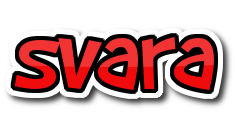
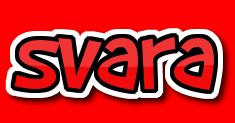
new changes

diff --git a/app/assets/stylesheets/application.scss b/app/assets/stylesheets/application.scss
@@ -1,6 +1,33 @@
 @import "bootstrap-sprockets";
 @import "bootstrap";
 
+
+body {
+    background-color: #ADD8E6;
+}
+
+
+
+.jumbotron {
+    max-width:500px;
+    margin:20px auto;
+    background-color :#FFF;
+    font-size: 25px;
+    font-weight: 700 ;
+    font-style: oblique;
+}
+
+
+.navbar {
+    background-color :#ff0505;
+}
+
+
+
+
+
+
+
 .footer {
   position: relative;
   right: 0;
